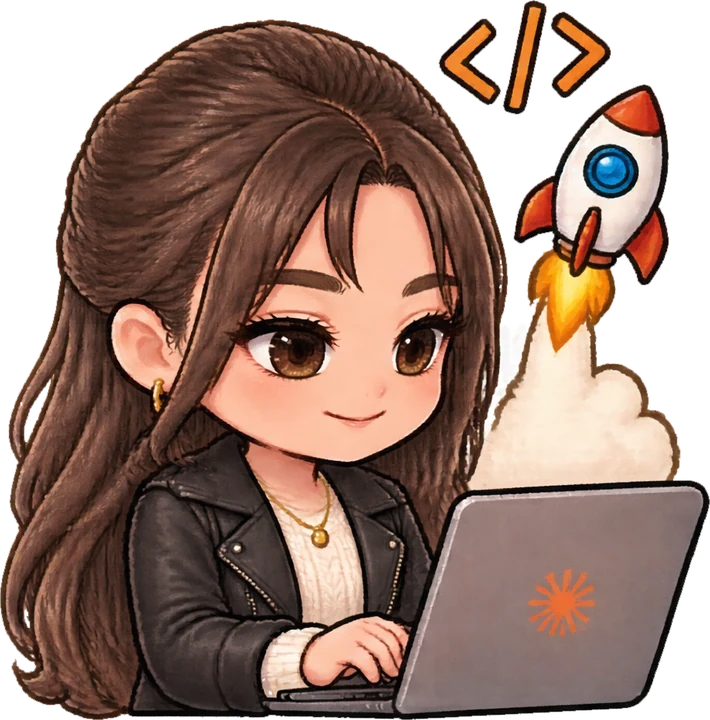
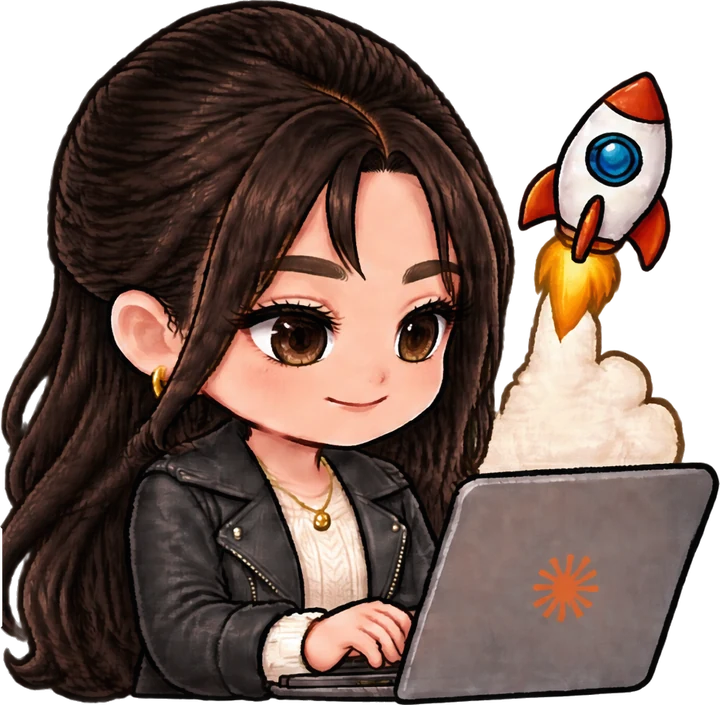
Regenerate all stickers with darker hair and no outline; mark Orca as optional
- Both sheets regenerated with Krea: dark chocolate-brown hair, same eyes,
  no white sticker border, transparent background; all 14 stickers re-cut
- Hebrew home and line pages use the new stickers
- Orca station (Line 3) is tagged Optional at the top of the lesson and on the map
  ("not needed for the exam"), in English and Hebrew

Claude-Session: https://claude.ai/code/session_01GW1Xrcab2NvVL6EBGkTU1q

diff --git a/js/app.js b/js/app.js
@@ -290,7 +290,7 @@
       const marked = S.marks.some((k) => k.lesson === l.id);
       return `<li class="station${done ? ' done' : ''}${isCur ? ' current' : ''}">
         <div class="track"><span class="stop">${done ? icon('check') : ''}</span></div>
-        <a href="#${l.id}"><span class="st-title">${esc(tx(l.title))}${marked ? ` <span class="st-flag" title="${esc(t('bookmarked'))}">${icon('bookmarkOn')}</span>` : ''}</span><span class="st-meta">${l.minutes || 5} ${esc(t('min'))}</span></a>
+        <a href="#${l.id}"><span class="st-title">${esc(tx(l.title))}${marked ? ` <span class="st-flag" title="${esc(t('bookmarked'))}">${icon('bookmarkOn')}</span>` : ''}</span><span class="st-meta">${l.optional ? `<span class="st-opt">${esc(t('optional'))}</span> · ` : ''}${l.minutes || 5} ${esc(t('min'))}</span></a>
       </li>`;
     }).join('')}</ol>`;
   }
@@ -328,7 +328,7 @@
     }).join('');
     return `<div class="view">
       <section class="hero">
-        ${L === 'he' ? `<img class="hero-art" src="assets/stickers/chat-robot.webp" width="633" height="526" alt="${esc(t('heroArtAlt'))}">` : ''}
+        ${L === 'he' ? `<img class="hero-art" src="assets/stickers/chat-robot.webp" width="720" height="589" alt="${esc(t('heroArtAlt'))}">` : ''}
         <span class="eyebrow">${esc(t('homeEyebrow'))}</span>
         <h1>${esc(t('homeTitle'))}</h1>
         <p>${md(t('homeIntro'))}</p>
@@ -448,6 +448,7 @@
     const checks = l.check || [];
     return `<article class="view lesson" style="${lineVars(m.line)}" data-lesson="${l.id}">
       <header class="lesson-head">
+        ${l.optional ? `<p class="opt-tag">${icon('flag')}<span><b>${esc(t('optional'))}</b> · ${esc(t('optionalNote'))}</span></p>` : ''}
         <div class="crumbs"><span class="linebadge">${m.n}</span><a href="#${m.id}">${esc(tx(m.title))}</a><span aria-hidden="true">·</span><span class="tnum">${esc(t('lessonXofY', { x: l.idx + 1, y: m.lessons.length }))}</span></div>
         <h1>${esc(tx(l.title))}</h1>
         <div class="row"><span class="chip">${icon('clock').replace('<svg', '<svg style="width:14px;height:14px"')}${l.minutes || 5} ${esc(t('min'))}</span>${(l.domains || []).map((d) => DOM[d] ? `<span class="chip dom" title="${esc(t('examDomain'))}">${esc(t('domainShort', { n: d.slice(1) }))} · ${esc(tx(DOM[d].short || DOM[d]))}</span>` : '').join('')}${done ? `<span class="chip" style="background:var(--good-soft);color:var(--good)">${icon('check').replace('<svg', '<svg style="width:14px;height:14px"')}${esc(t('completed'))}</span>` : ''}</div>

diff --git a/content/ui.js b/content/ui.js
@@ -15,7 +15,7 @@ CT.domains = [
 
 CT.ui = {
   en: {
-    appName: 'Claude Trainer', heroArtAlt: 'A smiling learner chatting with a small friendly robot',
+    appName: 'Claude Trainer', optional: 'Optional', optionalNote: 'Extra content. You can skip it; it is not needed for the exam.', heroArtAlt: 'A smiling learner chatting with a small friendly robot',
     tabJourney: 'Journey', tabNotebook: 'Notebook', tabExam: 'Exam', tabGlossary: 'Words', tabPrefs: 'Settings', back: 'Back',
     lineN: 'Line {n}', lessonN: 'Lesson {n}', lessonXofY: 'Lesson {x} of {y}', min: 'min', hours: 'h', lessons: 'lessons',
     homeEyebrow: 'Your learning journey', homeTitle: 'From your first chat with Claude to shipping AI tools for real businesses',
@@ -105,7 +105,7 @@ CT.ui = {
     ]
   },
   he: {
-    appName: 'מאמן Claude', heroArtAlt: 'לומדת מחייכת משוחחת עם רובוט קטן וחביב',
+    appName: 'מאמן Claude', optional: 'רשות', optionalNote: 'תוכן נוסף. אפשר לדלג עליו, הוא לא נדרש למבחן.', heroArtAlt: 'לומדת מחייכת משוחחת עם רובוט קטן וחביב',
     tabJourney: 'המסלול', tabNotebook: 'מחברת', tabExam: 'מבחן', tabGlossary: 'מילון', tabPrefs: 'הגדרות', back: 'חזרה',
     lineN: 'קו {n}', lessonN: 'שיעור {n}', lessonXofY: 'שיעור {x} מתוך {y}', min: 'דק׳', hours: 'שע׳', lessons: 'שיעורים',
     homeEyebrow: 'מסלול הלמידה שלכם', homeTitle: 'מהשיחה הראשונה עם Claude ועד כלי AI אמיתיים לעסקים',

diff --git a/css/app.css b/css/app.css
@@ -139,6 +139,11 @@ label.field small { font-weight: 400; color: var(--ink-2); }
 .line-head.has-art { grid-template-columns: 44px 1fr 96px; }
 .line-thumb { width: 96px; height: 96px; object-fit: contain; align-self: center; }
 .mod-hero.has-art { padding-top: 14px; }
+/* optional stations */
+.opt-tag { display: flex; gap: 8px; align-items: center; margin: 0 0 4px; padding: 8px 12px; border-radius: 10px; border: 1.5px dashed var(--rule); color: var(--ink-2); font-size: .9rem; line-height: 1.4; }
+.opt-tag svg { width: 18px; height: 18px; flex: none; color: var(--accent-ink); }
+.opt-tag b { color: var(--ink); }
+.st-opt { font-weight: 700; color: var(--ink-2); }
 .line-art { display: block; width: min(64%, 260px); height: auto; justify-self: center; }
 .stations { list-style: none; margin: 0 0 6px; padding: 0; }
 .station { display: grid; grid-template-columns: 44px 1fr; gap: 12px; min-height: 58px; }

diff --git a/content/m6.js b/content/m6.js
@@ -268,7 +268,7 @@ CT.modules.push({
     },
     /* ---------------------------------------------------------------- Orca & multi-agent */
     {
-      id: 'm6-l6', minutes: 11, domains: ['d3', 'd4'],
+      id: 'm6-l6', minutes: 11, domains: ['d3', 'd4'], optional: true,
       title: { en: 'Many agents, many models: Orca', he: 'הרבה סוכנים, הרבה מודלים: Orca' },
       tldr: {
         en: 'Orca is a desktop workspace for running several coding agents — Claude Code, Codex and others — side by side, each in its own Git worktree, with terminals, a browser and GitHub in one place. Use it to split work, compare approaches or models, and pair a builder with a reviewer. Same rules, same tests, a human merges.',

diff --git a/README.md b/README.md
@@ -80,8 +80,11 @@ give them at least Contributor access.
 index.html          Page shell: markup, the stylesheet links and the script tags (published as the artifact page)
 css/tokens.css      Design system: black-and-grey neutrals, sunset line colours, fonts, light and dark themes
 css/app.css         Components and layout (uses only the variables from tokens.css)
-assets/stickers/    Character stickers: the first sheet plus one file per pose (chat-robot is on the Hebrew home page)
-assets/stickers/lines/  One sticker per line for the Hebrew edition (made with Krea from the first sheet); sheet-lines.webp is the full set
+assets/stickers/    Character stickers (transparent, no outline): sheet.webp plus one file per pose;
+                    chat-robot is on the Hebrew home page
+assets/stickers/lines/  One sticker per line for the Hebrew edition; sheet-lines.webp is the full set.
+                    Made with Krea (GPT Image) using the character sheet as reference: dark chocolate-brown hair,
+                    warm brown eyes, black leather jacket over a cream knit sweater
 js/core.js          Helpers: escaping, inline markdown, icons
 js/app.js           Engine: routing, language switch, progress, highlights, notebook, quizzes, exam, saving
 js/widgets.js       Interactive widgets and the terminal simulator
